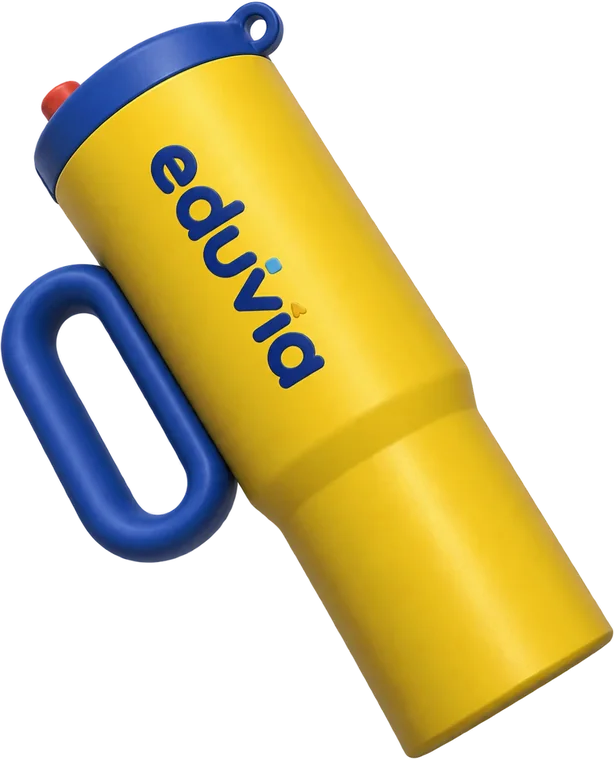
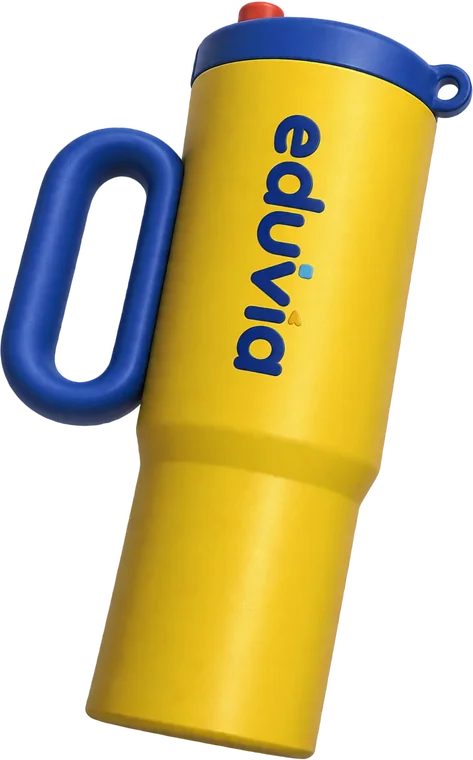
Gifts: right after the hero, no names, mirrored tilt
- The FREE Upon Registration section now follows the hero and the
  levels strip, on a white background.
- The product names are gone.
- The tumbler is rotated to lean right as much as the tote bag leans
  left, and both bob together with mirrored tilt, side by side on
  phones too.

Claude-Session: https://claude.ai/code/session_01Hb56ogdMb7XVcJ5pHWRUvL

diff --git a/index.html b/index.html
@@ -100,6 +100,35 @@
       </div>
     </div>
 
+    <!-- Registration gifts -->
+    <section class="section section-tight" id="hadiah">
+      <div class="container">
+        <div class="section-head reveal">
+          <p class="eyebrow" data-en="Registration gift">Hadiah pendaftaran</p>
+          <h2 class="display">FREE Upon Registration</h2>
+          <p class="body-lg" data-en="Every student who registers gets an Eduvia tote bag and tumbler.">Setiap pelajar yang daftar akan dapat beg tote dan botol air Eduvia.</p>
+        </div>
+        <div class="gifts">
+          <div class="gift reveal">
+            <img src="assets/img/hadiah/tote.webp" width="643" height="760" loading="lazy"
+                 alt="Beg tote Eduvia berwarna krim dengan tali biru dan tulisan impossible"
+                 data-en-alt="A cream Eduvia tote bag with blue handles and the word impossible">
+          </div>
+          <div class="gift reveal">
+            <img src="assets/img/hadiah/tumbler.webp" width="473" height="760" loading="lazy"
+                 alt="Botol air Eduvia berwarna kuning dengan penutup dan pemegang biru"
+                 data-en-alt="A yellow Eduvia tumbler with a blue lid and handle">
+          </div>
+        </div>
+        <div class="gifts-cta reveal">
+          <a class="btn btn-arrow" href="mailto:hello@eduvia.my" data-contact="trial">
+            <span>Join Free Trial Class</span>
+            <svg viewBox="0 0 24 24" aria-hidden="true"><path d="M5 12h14M13 6l6 6-6 6"/></svg>
+          </a>
+        </div>
+      </div>
+    </section>
+
     <!-- Approach: Uji, Semak, Bantu shown on a laptop screen (sample screens, not real data) -->
     <section class="section section-alt" id="approach">
       <div class="container">
@@ -418,41 +447,6 @@
         </div>
         <div class="fee-calc reveal" id="fee-calc">
           <noscript><p class="fc-empty">Sila hidupkan JavaScript untuk mengira yuran. / Please turn on JavaScript to use the fee calculator.</p></noscript>
-        </div>
-      </div>
-    </section>
-
-    <!-- Registration gifts -->
-    <section class="section section-tight section-alt" id="hadiah">
-      <div class="container">
-        <div class="section-head reveal">
-          <p class="eyebrow" data-en="Registration gift">Hadiah pendaftaran</p>
-          <h2 class="display">FREE Upon Registration</h2>
-          <p class="body-lg" data-en="Every student who registers gets an Eduvia tote bag and tumbler.">Setiap pelajar yang daftar akan dapat beg tote dan botol air Eduvia.</p>
-        </div>
-        <div class="gifts">
-          <article class="gift reveal">
-            <div class="gift-media">
-              <img src="assets/img/hadiah/tote.webp" width="643" height="760" loading="lazy"
-                   alt="Beg tote Eduvia berwarna krim dengan tali biru dan tulisan impossible"
-                   data-en-alt="A cream Eduvia tote bag with blue handles and the word impossible">
-            </div>
-            <h3 data-en="Eduvia Tote Bag">Beg Tote Eduvia</h3>
-          </article>
-          <article class="gift reveal">
-            <div class="gift-media">
-              <img src="assets/img/hadiah/tumbler.webp" width="614" height="760" loading="lazy"
-                   alt="Botol air Eduvia berwarna kuning dengan penutup dan pemegang biru"
-                   data-en-alt="A yellow Eduvia tumbler with a blue lid and handle">
-            </div>
-            <h3 data-en="Eduvia Tumbler">Botol Air Eduvia</h3>
-          </article>
-        </div>
-        <div class="gifts-cta reveal">
-          <a class="btn btn-arrow" href="mailto:hello@eduvia.my" data-contact="trial">
-            <span>Join Free Trial Class</span>
-            <svg viewBox="0 0 24 24" aria-hidden="true"><path d="M5 12h14M13 6l6 6-6 6"/></svg>
-          </a>
         </div>
       </div>
     </section>

diff --git a/assets/css/styles.css b/assets/css/styles.css
@@ -625,26 +625,25 @@ h1, h2, h3 { margin: 0; color: var(--fg); font-family: var(--font-display); font
 @media (max-width: 860px) { .fee-calc { grid-template-columns: 1fr; max-width: 560px; } }
 @media (max-width: 560px) { .fc-levels { grid-template-columns: repeat(2, 1fr); } }
 
-/* Registration gifts: the tote bag and tumbler float on their own, with a soft shadow below */
-.gifts { display: grid; grid-template-columns: repeat(2, minmax(0, 1fr)); gap: 40px; max-width: 860px; margin: 0 auto; }
-.gift { display: grid; justify-items: center; gap: 30px; min-width: 0; text-align: center; }
-.gift-media { position: relative; height: clamp(260px, 32vw, 360px); display: flex; align-items: center; justify-content: center; }
-.gift-media img {
+/* Registration gifts: the tote bag and tumbler float side by side, leaning away from each other
+   (the images are tilted to mirror one another), and bob together over a soft shadow */
+.gifts { display: grid; grid-template-columns: repeat(2, minmax(0, 1fr)); gap: 40px; max-width: 820px; margin: 0 auto; }
+.gift { --tilt: -1; position: relative; min-width: 0; height: clamp(200px, 36vw, 360px); display: flex; align-items: center; justify-content: center; }
+.gift + .gift { --tilt: 1; }
+.gift img {
   position: relative; z-index: 1; width: auto; height: auto; max-width: 100%; max-height: 100%;
   filter: drop-shadow(0 18px 20px rgba(18, 25, 95, 0.16));
   animation: gift-float 4s ease-in-out infinite alternate;
 }
-.gift-media::after {
-  content: ""; position: absolute; left: 50%; bottom: -18px; width: 62%; height: 22px;
+.gift::after {
+  content: ""; position: absolute; left: 50%; bottom: -22px; width: 58%; height: 22px;
   border-radius: 50%; background: radial-gradient(closest-side, rgba(18, 25, 95, 0.2), transparent);
   transform: translateX(-50%); animation: gift-shadow 4s ease-in-out infinite alternate;
 }
-.gift:nth-child(2) .gift-media img, .gift:nth-child(2) .gift-media::after { animation-delay: -2s; }
-@keyframes gift-float { from { transform: translateY(0) rotate(-1deg); } to { transform: translateY(-14px) rotate(1.5deg); } }
-@keyframes gift-shadow { from { opacity: 1; transform: translateX(-50%) scale(1); } to { opacity: 0.55; transform: translateX(-50%) scale(0.82); } }
-.gift h3 { margin: 0; font-size: 1.35rem; }
-.gifts-cta { margin-top: 48px; text-align: center; }
-@media (max-width: 640px) { .gifts { grid-template-columns: 1fr; gap: 56px; } }
+@keyframes gift-float { to { transform: translateY(-14px) rotate(calc(var(--tilt) * 1.5deg)); } }
+@keyframes gift-shadow { to { opacity: 0.55; transform: translateX(-50%) scale(0.82); } }
+.gifts-cta { margin-top: 56px; text-align: center; }
+@media (max-width: 640px) { .gifts { gap: 16px; } }
 
 /* Jadual 2027 (timetable): age dropdown, group toggle, list of days */
 .jadual { max-width: 860px; margin: 0 auto; }
